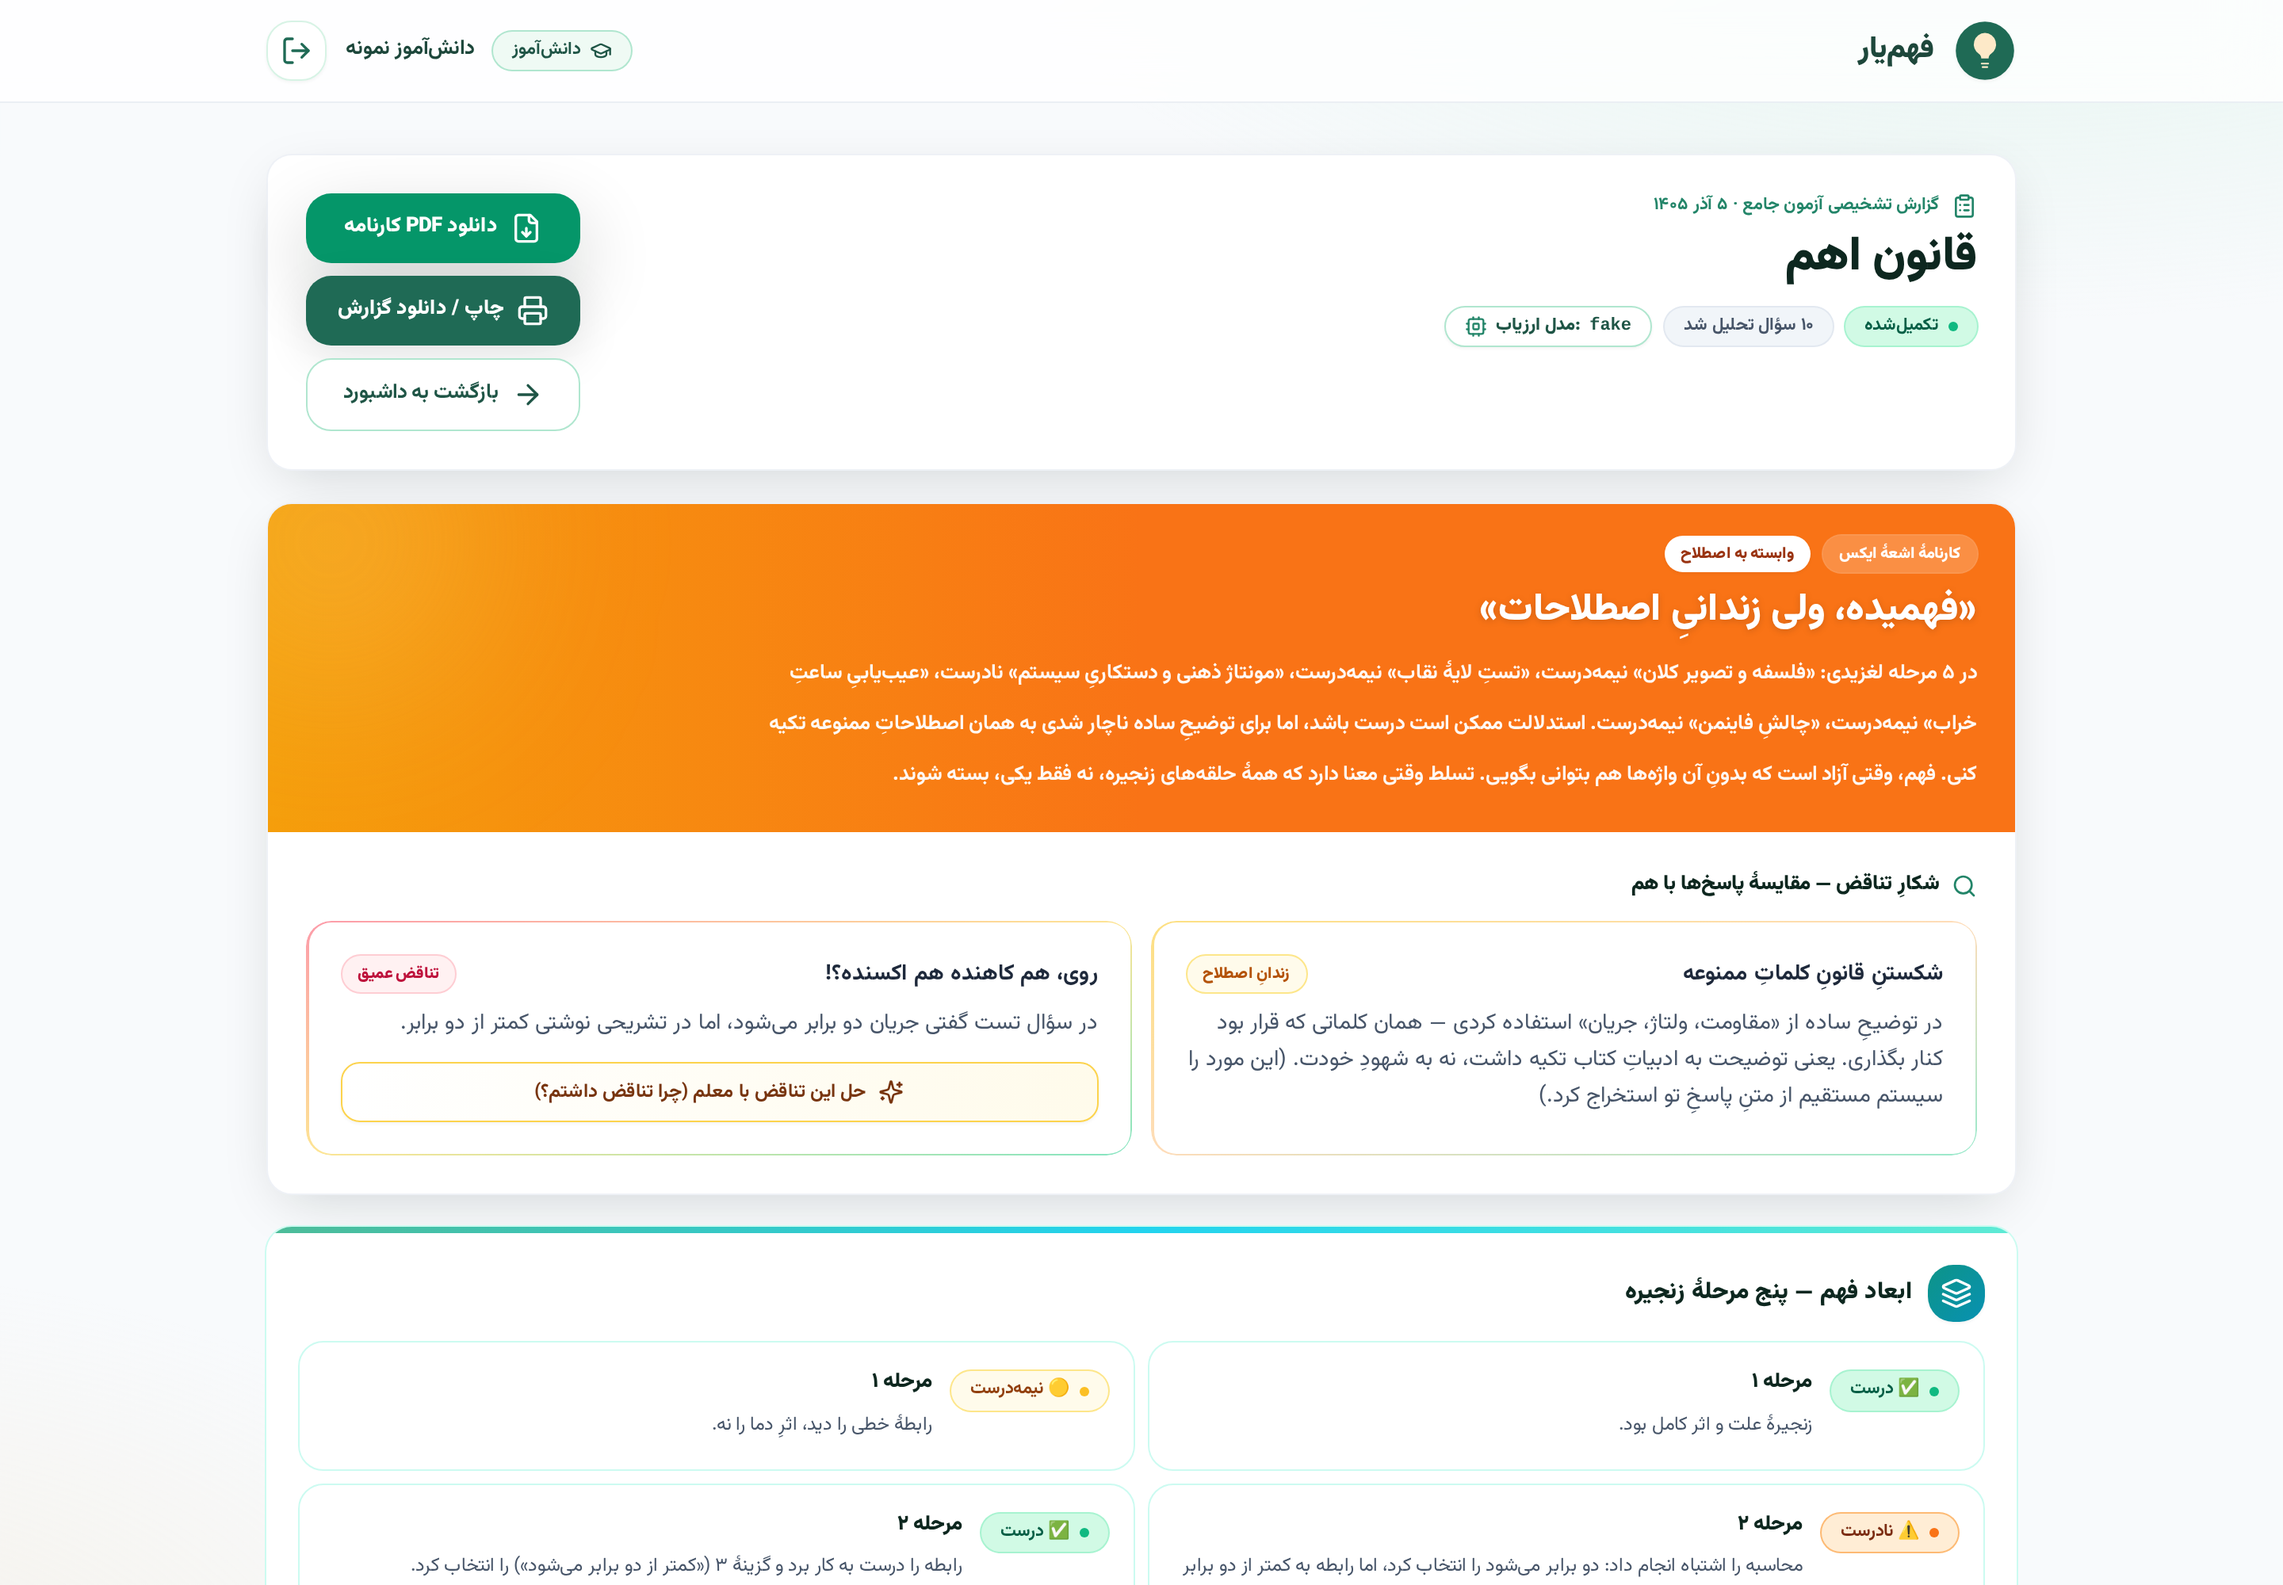
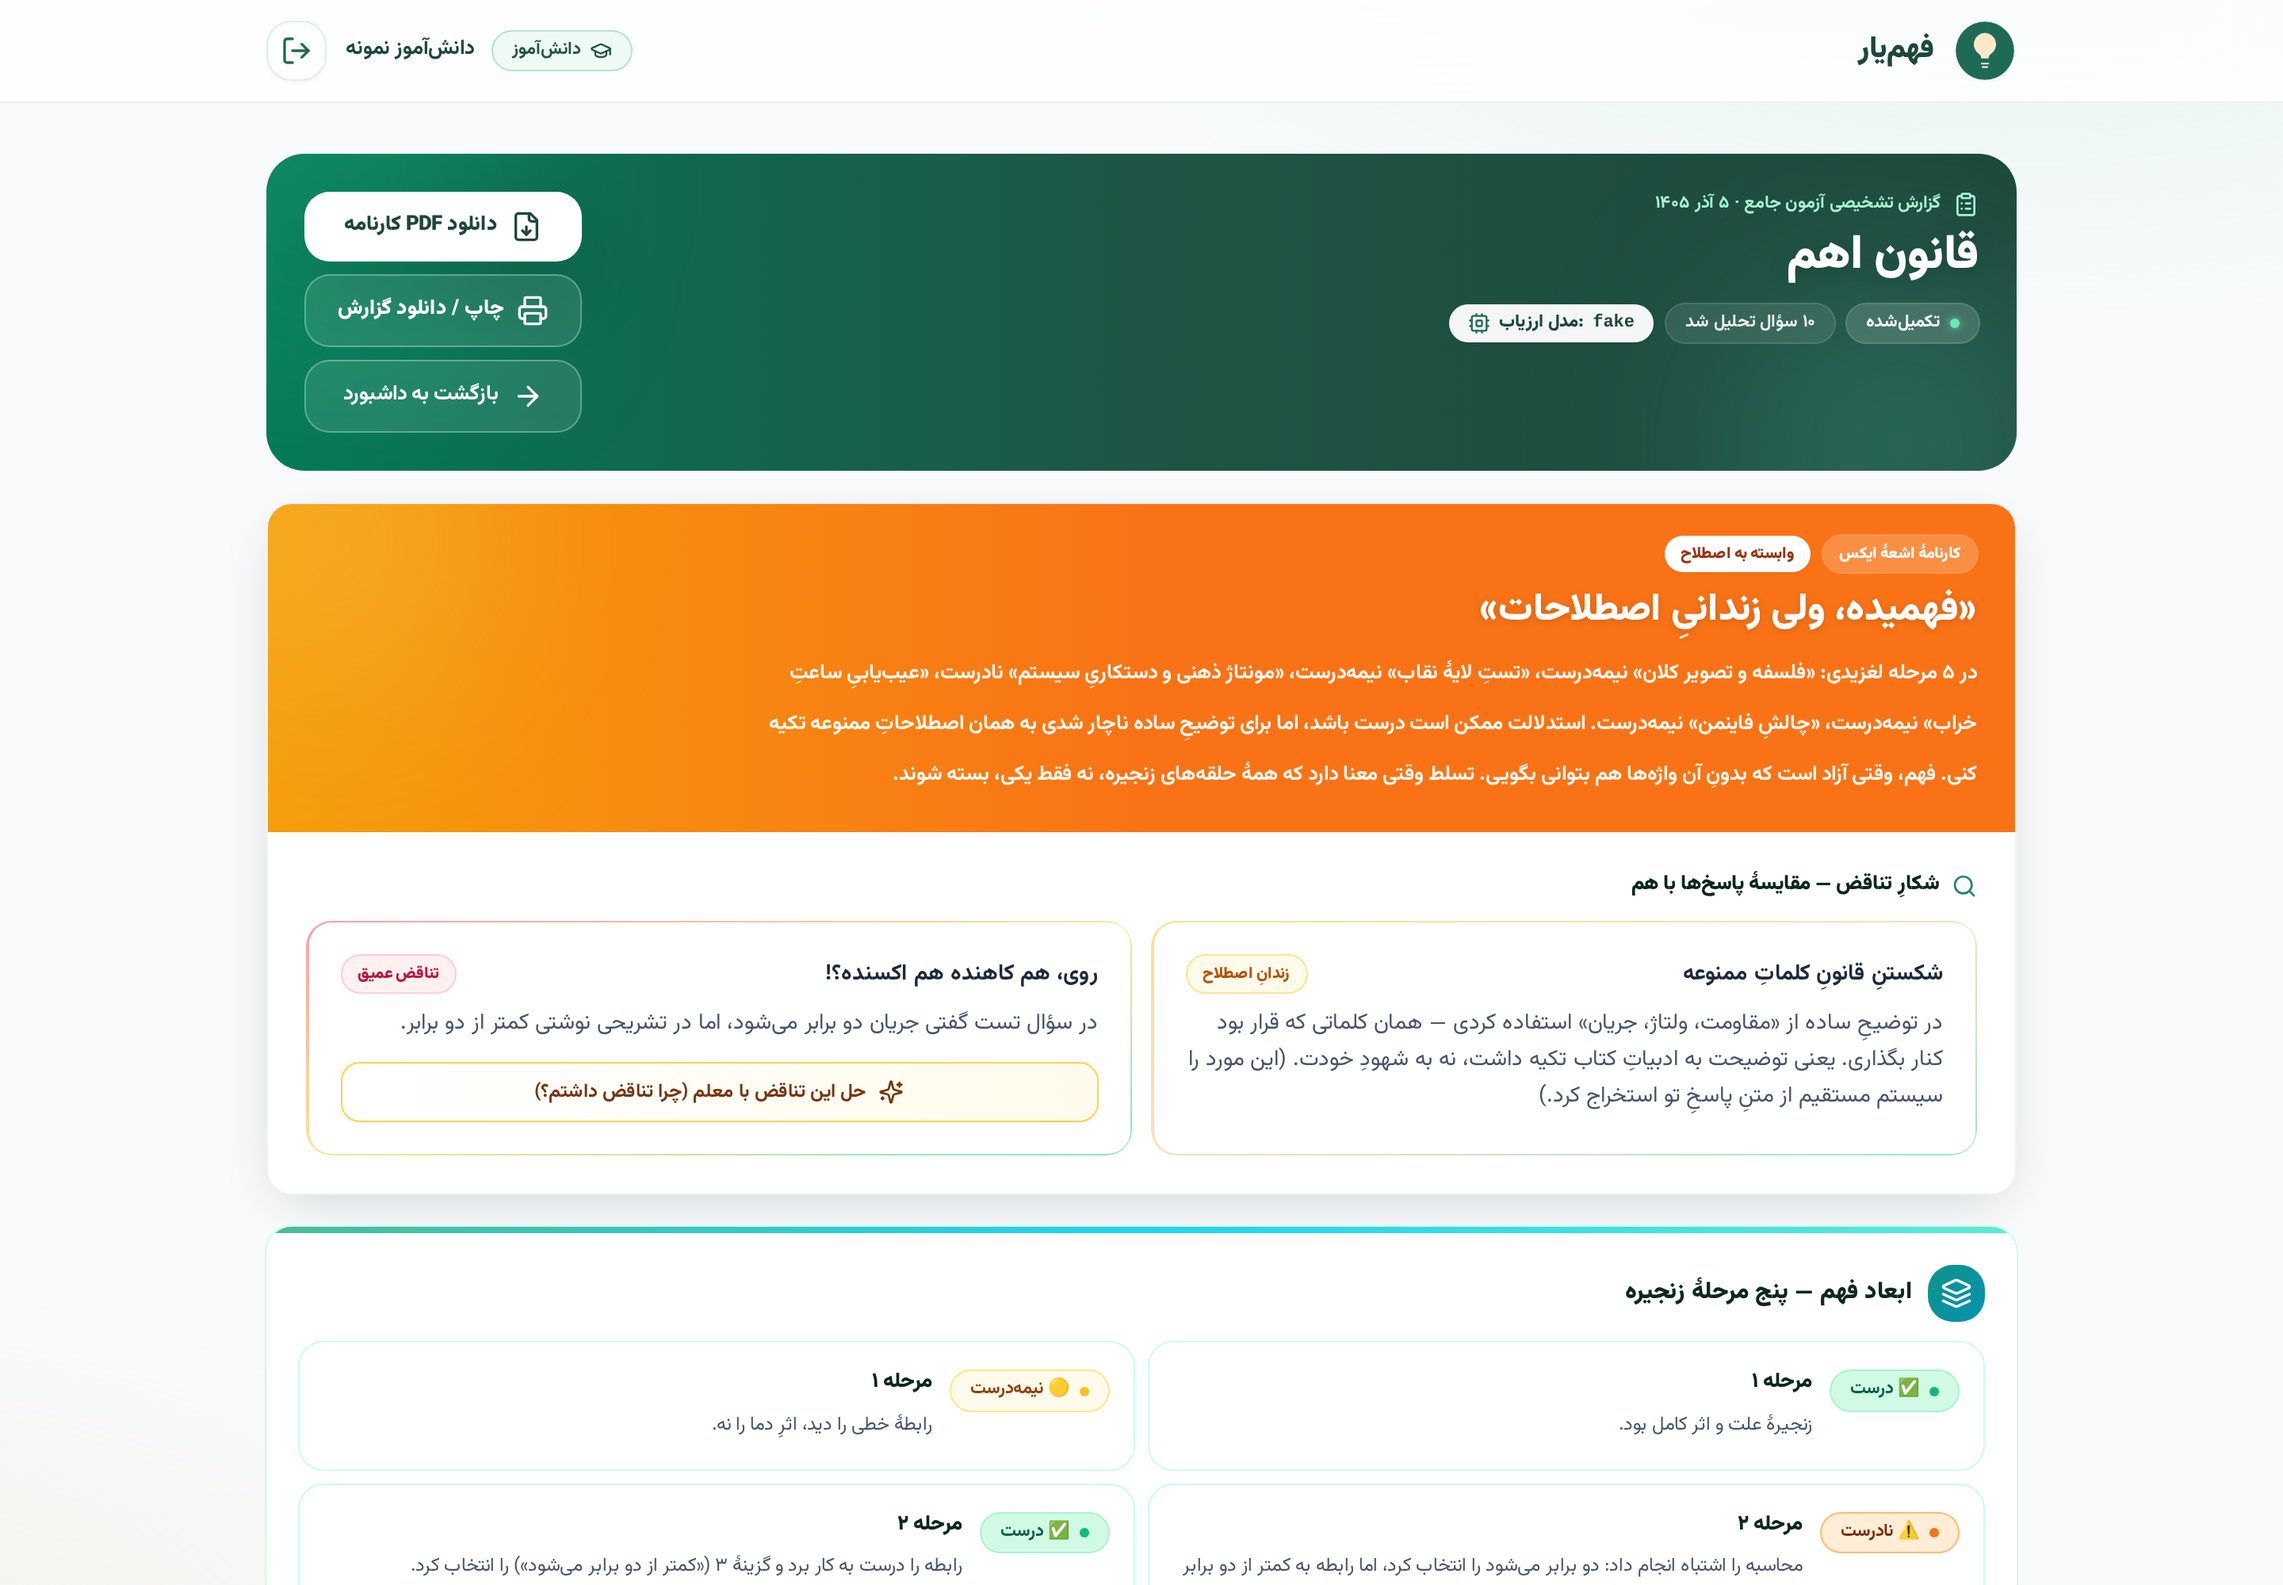
سربرگِ زمردی + نردبانِ سهسطحیِ رنگ در کارنامه
- سربرگِ «تیترِ مفهوم» از کارتِ سفید به نوارِ زمردیِ توپر با گرادیانت و
  دو هالهٔ گوشه رفت؛ صفحه دیگر یکدست سفید نیست
- بجها روی زمینهٔ تیره شیشهای شدند؛ بجِ مدلِ ارزیاب سفیدِ توپر ماند تا
  خوانا بماند
- دکمههای سربرگ شیشهای شدند و دکمهٔ اصلی (PDF) سفیدِ توپر — روی زمینهٔ
  تیره سلسلهمراتب برعکسِ زمینهٔ روشن است
- ۲۵۷ تست سبز، بیلد ✓، بدونِ هشدارِ React

Changed region(s): [[0.0938, 0.093, 0.9062, 0.31]]

diff --git a/frontend/src/pages/ReportView.jsx b/frontend/src/pages/ReportView.jsx
@@ -118,7 +118,7 @@ function DownloadPdfButton({ sessionId }) {
     <button
       onClick={download}
       disabled={downloading}
-      className="flex items-center justify-center gap-2 rounded-2xl bg-emerald-600 px-5 py-3 text-[13px] font-black text-white shadow-lift transition hover:bg-emerald-700 disabled:cursor-wait disabled:opacity-80"
+      className="flex items-center justify-center gap-2 rounded-2xl bg-white px-5 py-3 text-[13px] font-black text-brand-900 shadow-lift transition hover:bg-emerald-50 disabled:cursor-wait disabled:opacity-80"
     >
       {downloading ? <Loader2 className="h-5 w-5 animate-spin" /> : <FileDown className="h-5 w-5" />}
       {downloading ? 'در حال ساخت PDF…' : 'دانلود PDF کارنامه'}
@@ -639,24 +639,37 @@ function ExamReport({ report, mode, onBackToDashboard, sessionIdProp }) {
   return (
     <div className="animate-fade-up space-y-5">
       {/* ── سربرگ گزارش ── */}
-      <section className="card flex flex-wrap items-start justify-between gap-4 p-6">
+      <section className="relative overflow-hidden rounded-3xl bg-gradient-to-l from-brand-900 via-brand-800 to-emerald-700 p-6 text-white shadow-panel">
+        {/* هالهٔ گوشهها — عمق بدونِ تیرگیِ اضافه */}
+        <span
+          className="pointer-events-none absolute -left-16 -top-20 h-52 w-52 rounded-full bg-emerald-400/25 blur-3xl"
+          aria-hidden="true"
+        />
+        <span
+          className="pointer-events-none absolute -bottom-24 -right-10 h-56 w-56 rounded-full bg-teal-300/20 blur-3xl"
+          aria-hidden="true"
+        />
+        <div className="relative flex flex-wrap items-start justify-between gap-4">
         <div>
-          <p className="flex items-center gap-2 text-[11px] font-bold text-brand-600">
+          <p className="flex items-center gap-2 text-[11px] font-bold text-emerald-200">
             <ClipboardList className="h-4 w-4" />
             گزارش تشخیصی آزمون جامع · {generatedAt}
           </p>
-          <h1 className="mt-1.5 text-2xl font-black text-brand-950 sm:text-3xl">{report.concept_name ?? 'مفهوم نامشخص'}</h1>
+          <h1 className="mt-1.5 text-2xl font-black text-white drop-shadow-[0_2px_6px_rgba(0,0,0,0.18)] sm:text-3xl">{report.concept_name ?? 'مفهوم نامشخص'}</h1>
           <div className="mt-3 flex flex-wrap items-center gap-2">
-            <Badge status="completed" />
-            <span className="chip bg-slate-100 text-slate-600 ring-1 ring-slate-200">{toFarsiNumber(report.questions_answered ?? perQuestion.length)} سؤال تحلیل شد</span>
+            <span className="chip bg-white/15 text-white ring-1 ring-white/25 backdrop-blur-sm">
+              <span className="h-1.5 w-1.5 rounded-full bg-emerald-300 shadow-[0_0_6px_rgba(110,231,183,0.9)]" />
+              تکمیلشده
+            </span>
+            <span className="chip bg-white/10 text-white/90 ring-1 ring-white/20">{toFarsiNumber(report.questions_answered ?? perQuestion.length)} سؤال تحلیل شد</span>
             {/* بجِ مدلِ ارزیاب — کاربر همیشه میداند کارنامه با چه مدلی ساخته شده */}
             {modelName && (
               <span
-                className="chip inline-flex items-center gap-1.5 border border-brand-200 bg-white text-brand-800 shadow-sm"
+                className="chip inline-flex items-center gap-1.5 bg-white/95 text-brand-900 shadow-sm"
                 dir="ltr"
                 title="مدل هوش مصنوعی که این آزمون را تولید و ارزیابی کرده است"
               >
-                <Cpu className="h-3.5 w-3.5 text-brand-600" />
+                <Cpu className="h-3.5 w-3.5 text-brand-700" />
                 <span className="font-black">مدل ارزیاب:</span>
                 <code className="font-mono text-[11px] font-bold">{modelName}</code>
               </span>
@@ -665,17 +678,18 @@ function ExamReport({ report, mode, onBackToDashboard, sessionIdProp }) {
         </div>
         <div className="no-print flex shrink-0 flex-col gap-2">
           <DownloadPdfButton sessionId={report.session_id} />
-          <button onClick={() => window.print()} className="flex items-center justify-center gap-2 rounded-2xl bg-brand-700 px-5 py-3 text-[13px] font-black text-white shadow-card transition hover:bg-brand-800">
+          <button onClick={() => window.print()} className="flex items-center justify-center gap-2 rounded-2xl border border-white/30 bg-white/10 px-5 py-3 text-[13px] font-black text-white backdrop-blur-sm transition hover:bg-white/20">
             <Printer className="h-5 w-5" />
             چاپ / دانلود گزارش
           </button>
           <button
             onClick={handleBack}
-            className="flex items-center justify-center gap-2 rounded-2xl border border-brand-200 bg-white px-5 py-3 text-[13px] font-bold text-brand-800 transition hover:bg-brand-50"
+            className="flex items-center justify-center gap-2 rounded-2xl border border-white/30 bg-white/10 px-5 py-3 text-[13px] font-bold text-white backdrop-blur-sm transition hover:bg-white/20"
           >
             <ArrowRight className="h-5 w-5" />
             {backLabel}
           </button>
+        </div>
         </div>
       </section>
 

diff --git a/COGNITIVE_ENGINE.md b/COGNITIVE_ENGINE.md
@@ -780,3 +780,27 @@ full-page آن را پنهان میکند.
 **درسِ کلی این سه فاز:** «حذفِ تناقض» و «حذفِ شخصیت» یکی نیستند. راهِ
 درست، نگهداشتنِ رنگِ پُررنگ در سطوحِ *نمایشی* (هدر، بج، نوار) و کنترلِ
 آن در سطوحِ *اقدامی* (دکمه) است — نه یکدستکردنِ همهچیز.
+
+### ۱۷.۵ سربرگِ زمردی (اصلاحِ دوباره)
+
+بازخورد: «الان زیادی همهچیز سفید و یکدسته.» درست بود — بعد از روشنسازیِ
+فاز ۱۵، سربرگ و بدنهٔ کارتها هر دو سفید شده بودند و صفحه «سندِ اداری»
+شده بود.
+
+راهحل: **نردبانِ سهسطحیِ رنگ** بهجای یکدستسازی:
+
+| سطح | جنس | کار |
+|---|---|---|
+| ۱. سربرگ (تیترِ مفهوم) | زمردیِ توپرِ تیره + گرادیانت | «این کیست؟» |
+| ۲. کارنامهٔ اشعهٔ ایکس | کهربایی/رز/خاکستریِ توپر | «چه حکمی داری؟» |
+| ۳. بدنهٔ تحلیلی | سفید با نوارِ گرادیانتی | «جزئیات» |
+
+سه سطح، سه وزنِ بصری. کاربر بدونِ خواندنِ یک کلمه میفهمد کدام بخش
+«هویت» است، کدام «حکم» و کدام «جزئیات».
+
+دکمهها روی زمینهٔ تیره شیشهای شدند (`bg-white/10` + `backdrop-blur`)
+و دکمهٔ اصلی (PDF) سفیدِ توپر — سلسلهمراتب روی زمینهٔ تیره برعکسِ
+زمینهٔ روشن است.
+
+**قاعده:** تیرگی در سطحِ ۱ ممنوع نیست؛ آنچه ممنوع بود «جزیرهٔ تیره» بود —
+یعنی یک کارتِ سرمهایِ تنها در دریای سفید. نردبانِ منظم، جزیره نیست.
